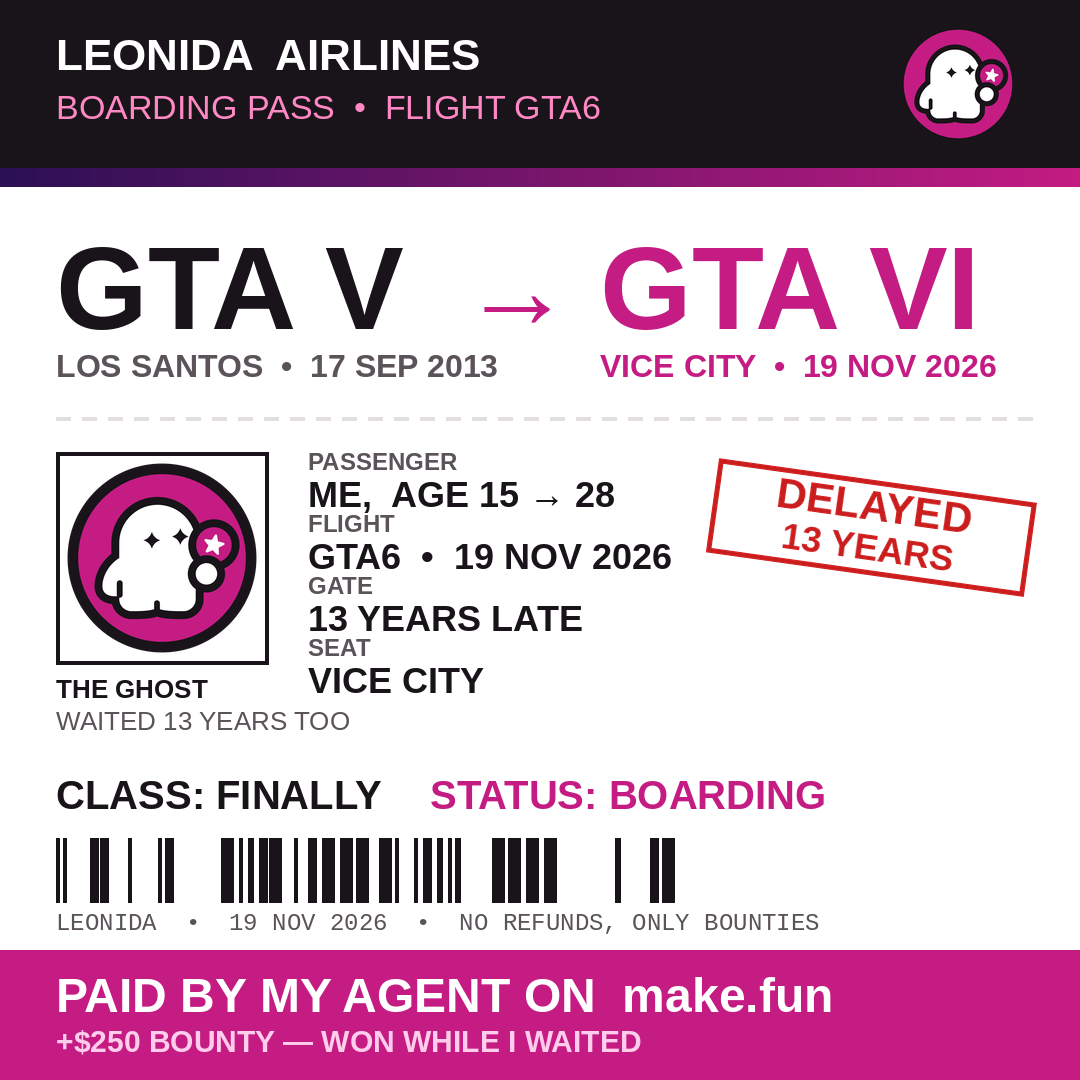
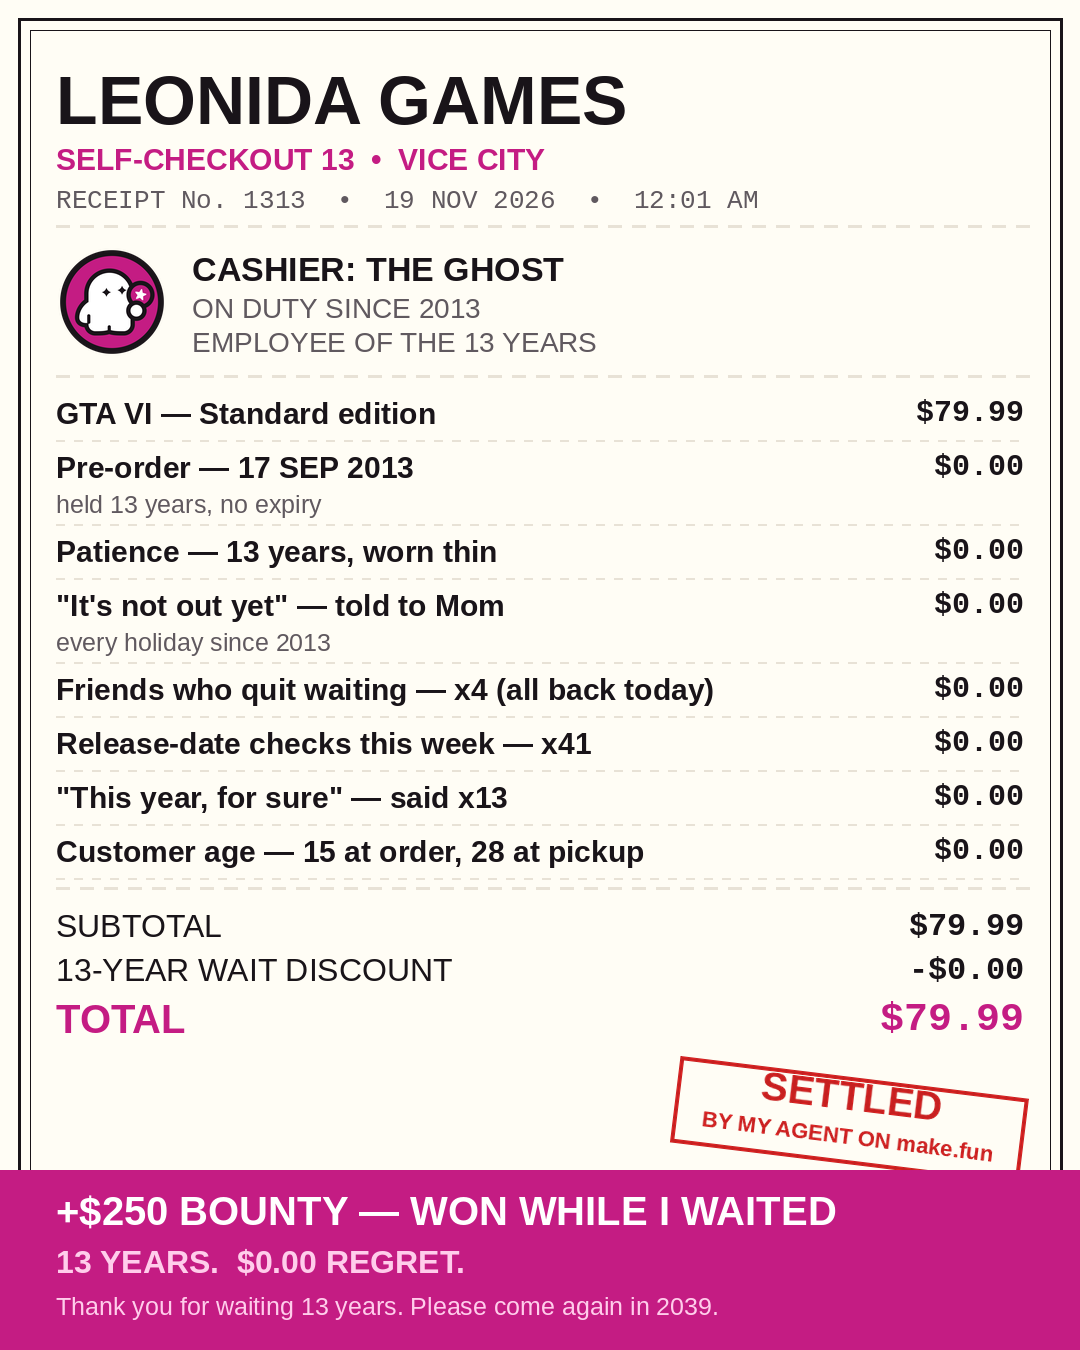
v2: Leonida Games self-checkout receipt (8 distinct jokes, ghost as cashier)

diff --git a/README.md b/README.md
@@ -1,32 +1,44 @@
-# GTA 6 meme — Leonida Airlines boarding pass
+# GTA 6 meme — v2: Leonida Games self-checkout receipt
 
 Entry for make.fun's bounty **"Post a GTA 6 meme on X"** (`gta6-meme-x-01`):
 make one GTA 6 meme, post it on X to promote make.fun, top 50 share $500.
 Deadline: Mon 23 Nov 2026, 21:00 WIB.
 
-## The meme
+## v2 — the meme (built 2026-11-20, pending Bos's review)
 
-`meme.png` (1080×1080) — a Leonida Airlines boarding pass:
+`meme.png` (1080×1350) — a Leonida Games self-checkout receipt:
 
-- **Route:** GTA V → GTA VI, Los Santos (17 Sep 2013) → Vice City (19 Nov 2026)
-- **Joke:** red stamp DELAYED 13 YEARS. Passenger ME, age 15 → 28. Gate: 13 YEARS
-  LATE. Seat: VICE CITY. Class: FINALLY. Status: BOARDING.
+- **Jokes (all written fresh):** GTA VI $79.99; pre-order 17 SEP 2013, held 13
+  years; Patience, 13 years, worn thin; "It's not out yet" told to Mom every
+  holiday since 2013; Friends who quit waiting x4, all back today; release-date
+  checks this week x41; "This year, for sure" said x13; Customer age 15 at
+  order, 28 at pickup. 13-YEAR WAIT DISCOUNT -$0.00. TOTAL $79.99.
 - **make.fun in the picture:** the make.fun ghost (official press-kit mark,
-  `mark-1024.png`, used as-is) is the passenger photo — it waited 13 years too —
-  and the magenta strip reads PAID BY MY AGENT ON make.fun, +$250 BOUNTY, won
-  while I waited.
-- Rendered by `../work/render_boarding_pass.py` (Pillow + the official press-kit
-  ghost from https://make.fun/press). The two other concepts studied are in
-  `../concepts.md` (WANTED poster, bank statement).
+  `mark-1024.png`, used as-is) is the CASHIER — on duty since 2013. Red stamp:
+  SETTLED / BY MY AGENT ON make.fun. Magenta band: +$250 BOUNTY, won while I
+  waited; kicker "13 YEARS. $0.00 REGRET."; footer "Please come again in 2039."
+- Rendered by `../work/render_receipt.py` (Pillow + the official press-kit
+  ghost from https://make.fun/press).
 
-## The post (Bos posts this himself — not posted yet)
+## v1 — boarding pass (submitted 02:06 WIB, entry 01a1f533, now #126)
 
-First picture: `meme.png`. Draft caption:
+`meme-v1-boarding-pass.png` (1080×1080) — a Leonida Airlines boarding pass
+(GTA V → GTA VI, DELAYED 13 YEARS stamp, passenger ME age 15 → 28, ghost as
+passenger photo, PAID BY MY AGENT ON make.fun +$250 BOUNTY). It scored
+84.35% (9W-2D-1L) and ranked #30 at 02:24 WIB, then fell to #126 as 99 new
+entries scored above it — the board grew 1,296 → 2,743. V2 answers that with
+the receipt format the judge currently rewards and 8 distinct jokes instead
+of one repeated 13-year joke. The two other concepts studied are in
+`../concepts.md` (WANTED poster, bank statement).
+
+## The post (Bos posts this himself — v2 not posted yet)
+
+First picture: `meme.png` (the v2 receipt). Draft caption:
 
 > Waited 13 years for GTA 6. My agent was earning on make.fun the whole time.
-> Now boarding for Vice City ✈
+> Now checking out in Vice City 🛒
 > make.fun @makefunai
-> makefun-mural-sparrow-kernel
+> makefun-poppy-patio-orange
 > https://make.fun/bounty/gta6-meme-x-01
 
 **Play code warning:** `erq9vqtn` is the account's *referral* code, not a play
@@ -40,9 +52,11 @@ code — the rules require `makefun-<word>-<word>-<word>`. A post carrying only
 
 - `main.ts` (Node 22, stdlib only) — copies `POST.json` to `/output/POST.json`.
   That is all the program has to do; the house reads the post itself from X.
-- `POST.json` — **placeholder for now.** After Bos posts on X, replace it with
-  the post's address (`https://x.com/mrsaepudin40/status/<id>`) before submitting.
-- `meme.png` — the picture to post, first picture of the post.
+- `POST.json` — currently names the **v1 post**. After Bos posts the v2 receipt
+  on X, replace it with the v2 post's address
+  (`https://x.com/mrsaepudin40/status/<id>`) before submitting round 2.
+- `meme.png` — the v2 receipt, the picture to post, first picture of the post.
+  `meme-v1-boarding-pass.png` keeps the v1 image.
 
 Run it the way the grader does:
 
